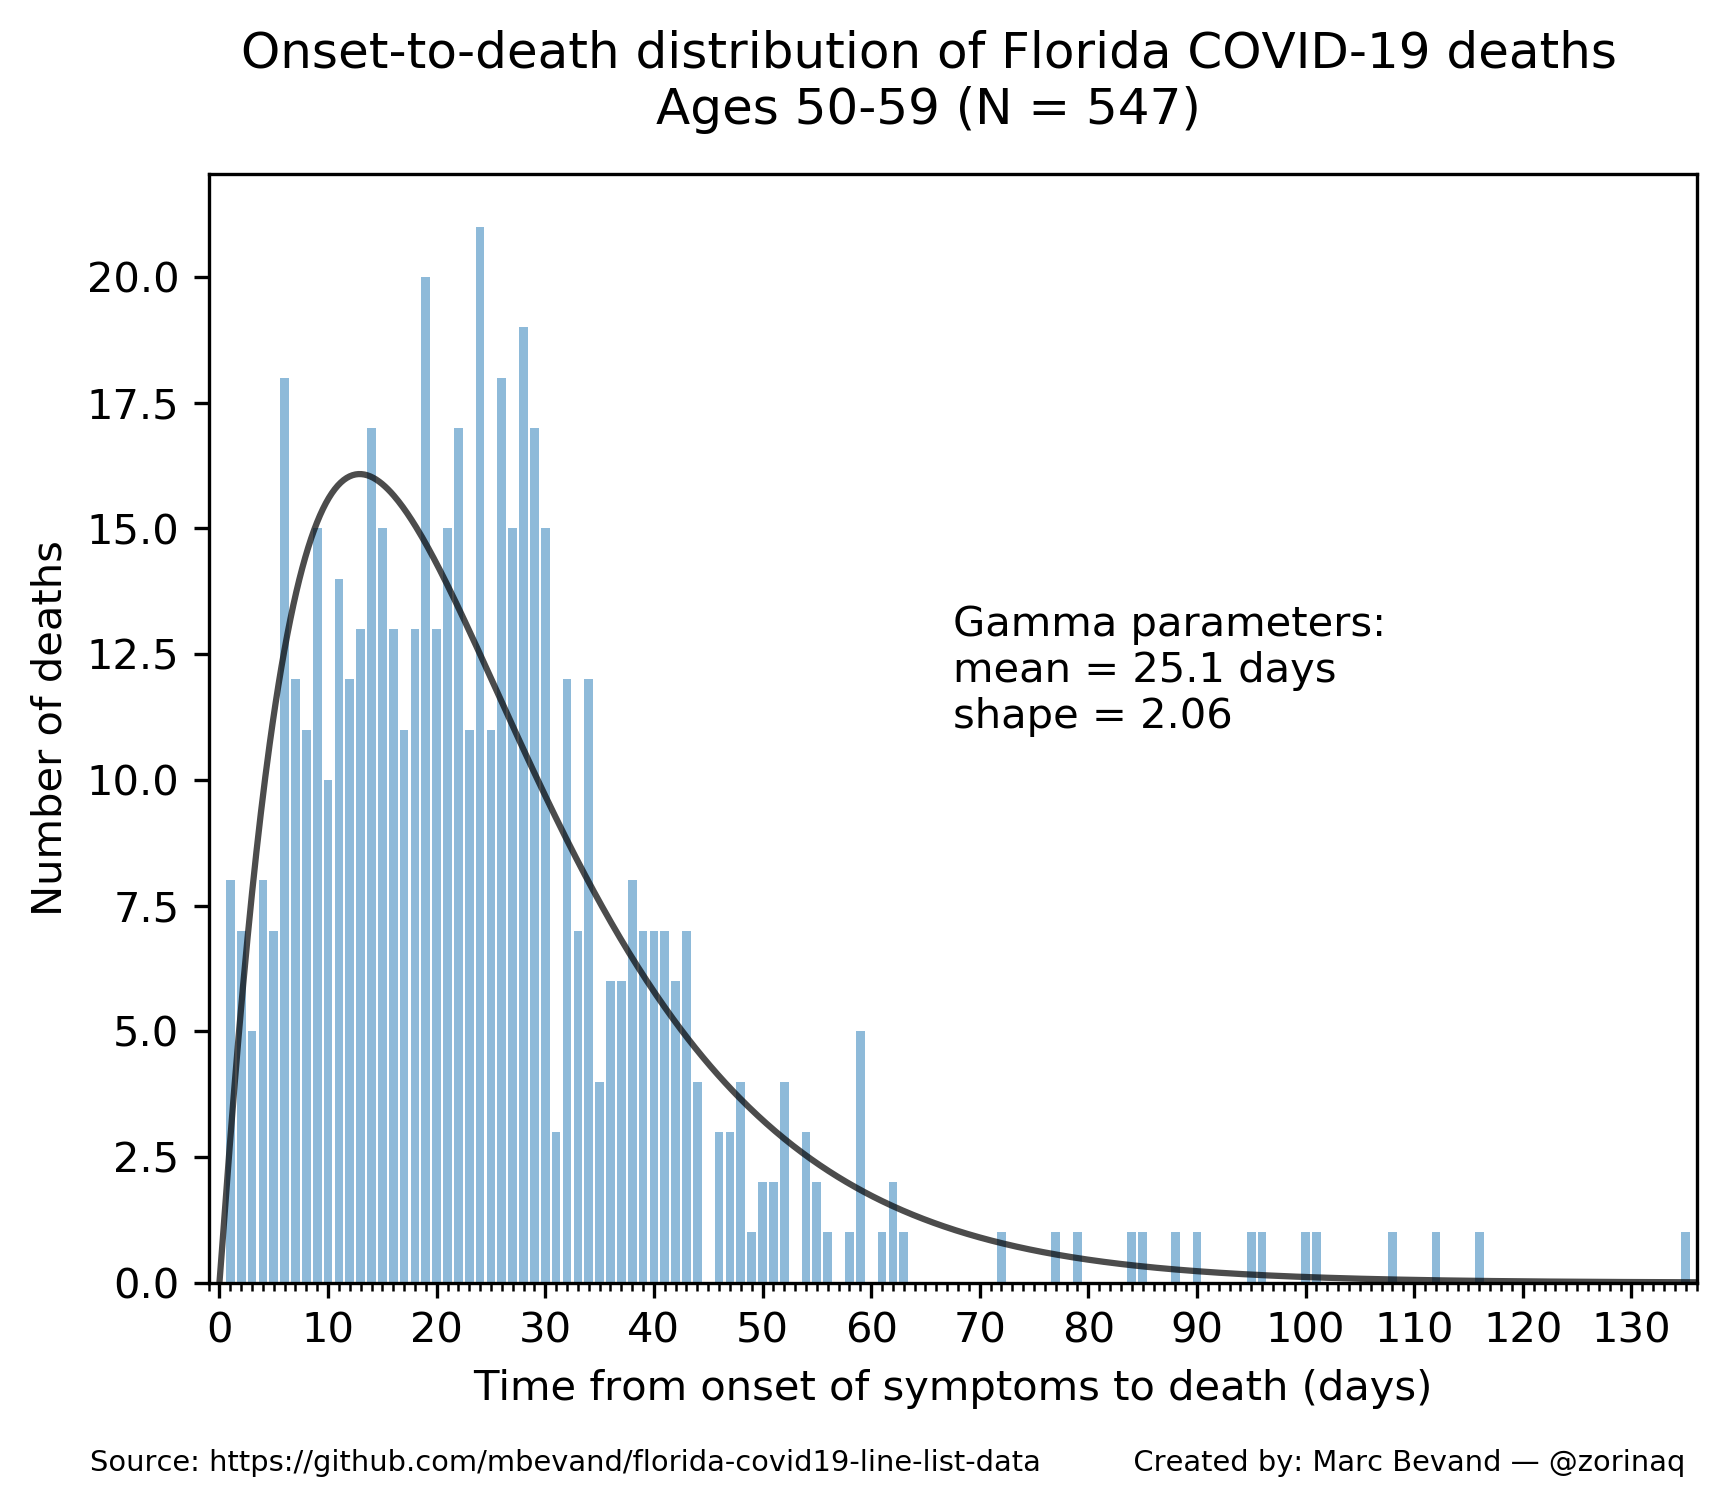
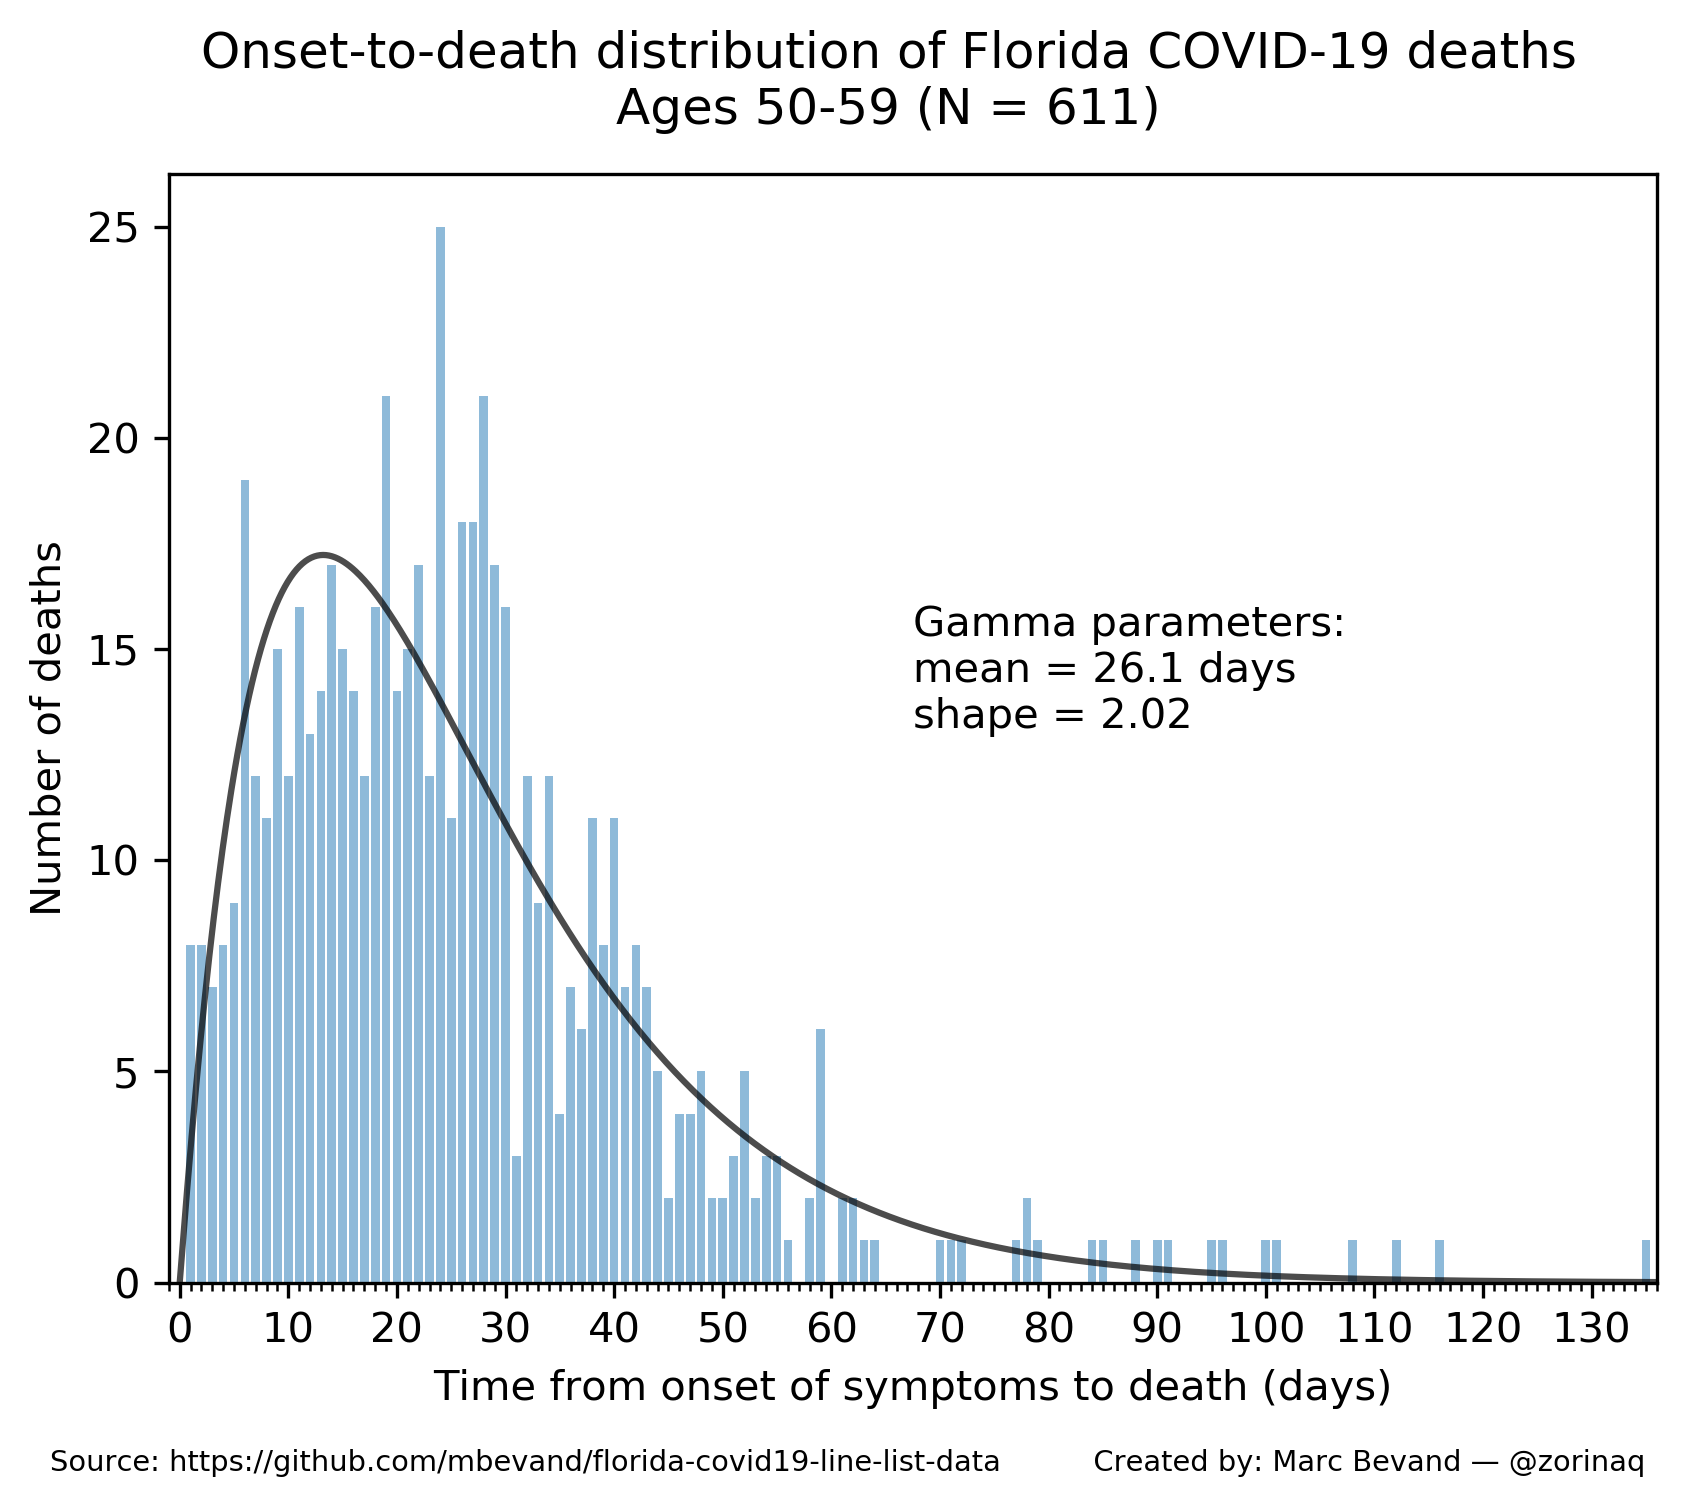
new gamma distribution

diff --git a/age_stratified_cfr.py b/age_stratified_cfr.py
@@ -218,7 +218,7 @@ def main():
         data[date][b].deaths += 1 if died else 0
         data[date][b].cases += 1
     # Parameters of the Gamma distribution of onset-to-death, calculated by gamma.py
-    mean, shape = 22.2, 2.09
+    mean, shape = 23.2, 2.05
     calc_cfr(data, mean, shape)
     #print_stats(data)
     gen_chart(data, mean, shape)

diff --git a/forecast_deaths.py b/forecast_deaths.py
@@ -24,7 +24,7 @@ csv_deaths_occurred = 'data_deaths/deaths_by_date_of_death.csv'
 deaths_occurred_ignore_days = 10
 
 # Mean time (in days) from onset of symptoms to death, calculated by gamma.py
-o2d = 22.2
+o2d = 23.2
 
 # Number of days to calculate the simple moving average of the chart curves
 avg_days = 7

diff --git a/README.md b/README.md
@@ -1,6 +1,6 @@
 # Forecasting deaths and analyzing age trends of COVID-19 cases in Florida
 
-*Updated: 25 August 2020*
+*Updated: 27 August 2020*
 
 Author: Marc Bevand
 
@@ -102,13 +102,13 @@ important that we feed it CFR estimates, not IFR estimates. Infection Fatality
 Ratios take into account *undetected* cases and thus would not be consistent
 with line list data.
 
-Then the script assumes death occurs on average 22.2 days after infection,
+Then the script assumes death occurs on average 23.2 days after infection,
 which is the mean onset-to-death time calculated by `gamma.py`.
 
 Finally, it charts the forecast (`forecast_deaths.png`). The curves are all
 smoothed with a 7-day simple moving average.
 
-The end result is a simple tool that can not only predict deaths up to ~22.2
+The end result is a simple tool that can not only predict deaths up to ~23.2
 days ahead of time, but can also estimate *past* deaths accurately: notice how
 the colored curves in the generated chart follow closely the observed deaths.
 
@@ -255,70 +255,76 @@ Parsing data_fdoh/2020-08-18-07-42-14.csv
 Parsing data_fdoh/2020-08-19-08-02-46.csv
 Parsing data_fdoh/2020-08-20-07-53-41.csv
 Parsing data_fdoh/2020-08-21-08-06-24.csv
+Parsing data_fdoh/2020-08-22-07-43-00.csv
+Parsing data_fdoh/2020-08-23-07-55-32.csv
+Parsing data_fdoh/2020-08-24-08-00-18.csv
+Parsing data_fdoh/2020-08-25-07-53-22.csv
+Parsing data_fdoh/2020-08-26-07-53-06.csv
+Parsing data_fdoh/2020-08-27-07-50-53.csv
 
 Ages 0-29:
-Number of deaths: 48
+Number of deaths: 52
 Gamma distribution params:
-mean = 16.3
-shape = 1.80
+mean = 17.8
+shape = 1.66
 
 Ages 30-39:
-Number of deaths: 95
+Number of deaths: 99
 Gamma distribution params:
-mean = 19.9
-shape = 1.54
+mean = 21.1
+shape = 1.49
 
 Ages 40-49:
-Number of deaths: 225
+Number of deaths: 246
 Gamma distribution params:
-mean = 24.8
-shape = 2.07
+mean = 26.8
+shape = 2.00
 
 Ages 50-59:
-Number of deaths: 547
+Number of deaths: 611
 Gamma distribution params:
-mean = 25.1
-shape = 2.06
+mean = 26.1
+shape = 2.02
 
 Ages 60-69:
-Number of deaths: 1205
+Number of deaths: 1334
 Gamma distribution params:
-mean = 23.6
-shape = 2.29
+mean = 24.7
+shape = 2.25
 
 Ages 70-79:
-Number of deaths: 1938
+Number of deaths: 2149
 Gamma distribution params:
-mean = 22.7
-shape = 2.23
+mean = 23.6
+shape = 2.20
 
 Ages 80-89:
-Number of deaths: 2190
+Number of deaths: 2415
 Gamma distribution params:
-mean = 21.7
-shape = 2.05
+mean = 22.5
+shape = 2.02
 
 Ages 90+:
-Number of deaths: 1174
+Number of deaths: 1304
 Gamma distribution params:
-mean = 19.4
-shape = 1.99
+mean = 20.4
+shape = 1.92
 
 All ages:
-Number of deaths: 7422
+Number of deaths: 8210
 Gamma distribution params:
-mean = 22.2
-shape = 2.09
+mean = 23.2
+shape = 2.05
 ```
 
-The overall (all ages) mean of 22.2 days is comparable to other published estimates, however our
-distribution is wider (ie. smaller shape parameter of 2.09) because many deaths
+The overall (all ages) mean of 23.2 days is comparable to other published estimates, however our
+distribution is wider (ie. smaller shape parameter of 2.05) because many deaths
 occur in the long tail:
 * mean 17.8 days, shape 4.94 = 0.45<sup>-2</sup>, based on sample of 24 deaths: [Estimates of the severity of coronavirus disease 2019: a model-based analysis][verity]
 * mean 15.1 days, shape 5.1, based on sample of 3 deaths: [Estimating case fatality ratio of COVID-19 from observed cases outside China][althaus]
 
 We believe our distribution parameters are more accurate because
-they are based on a much larger sample of 7422 deaths. The long tail
+they are based on a much larger sample of 8210 deaths. The long tail
 may be the result of improved treatments that can maintain patients
 alive for a longer time.
 
